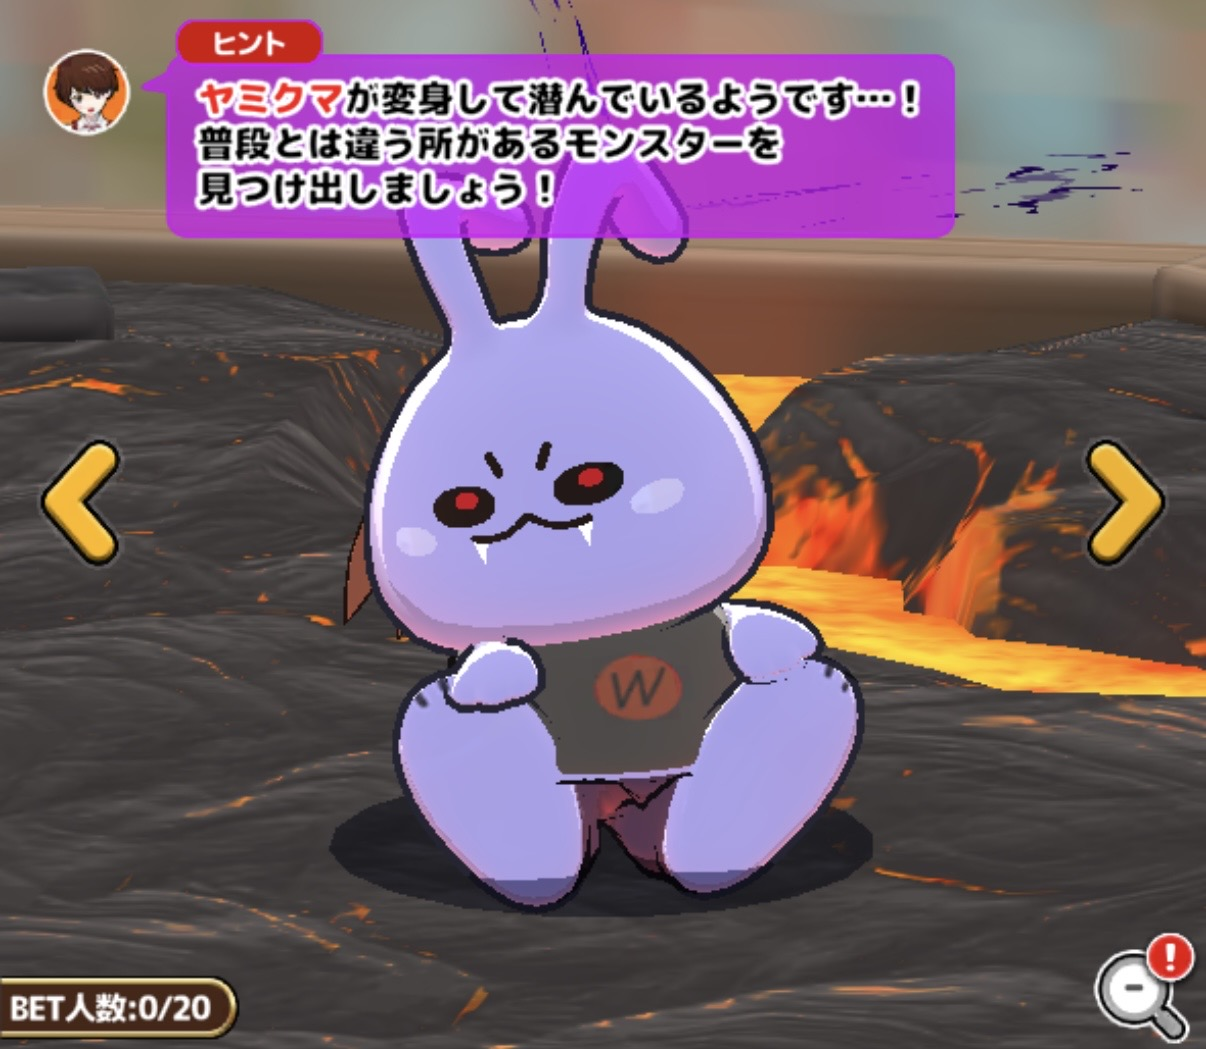
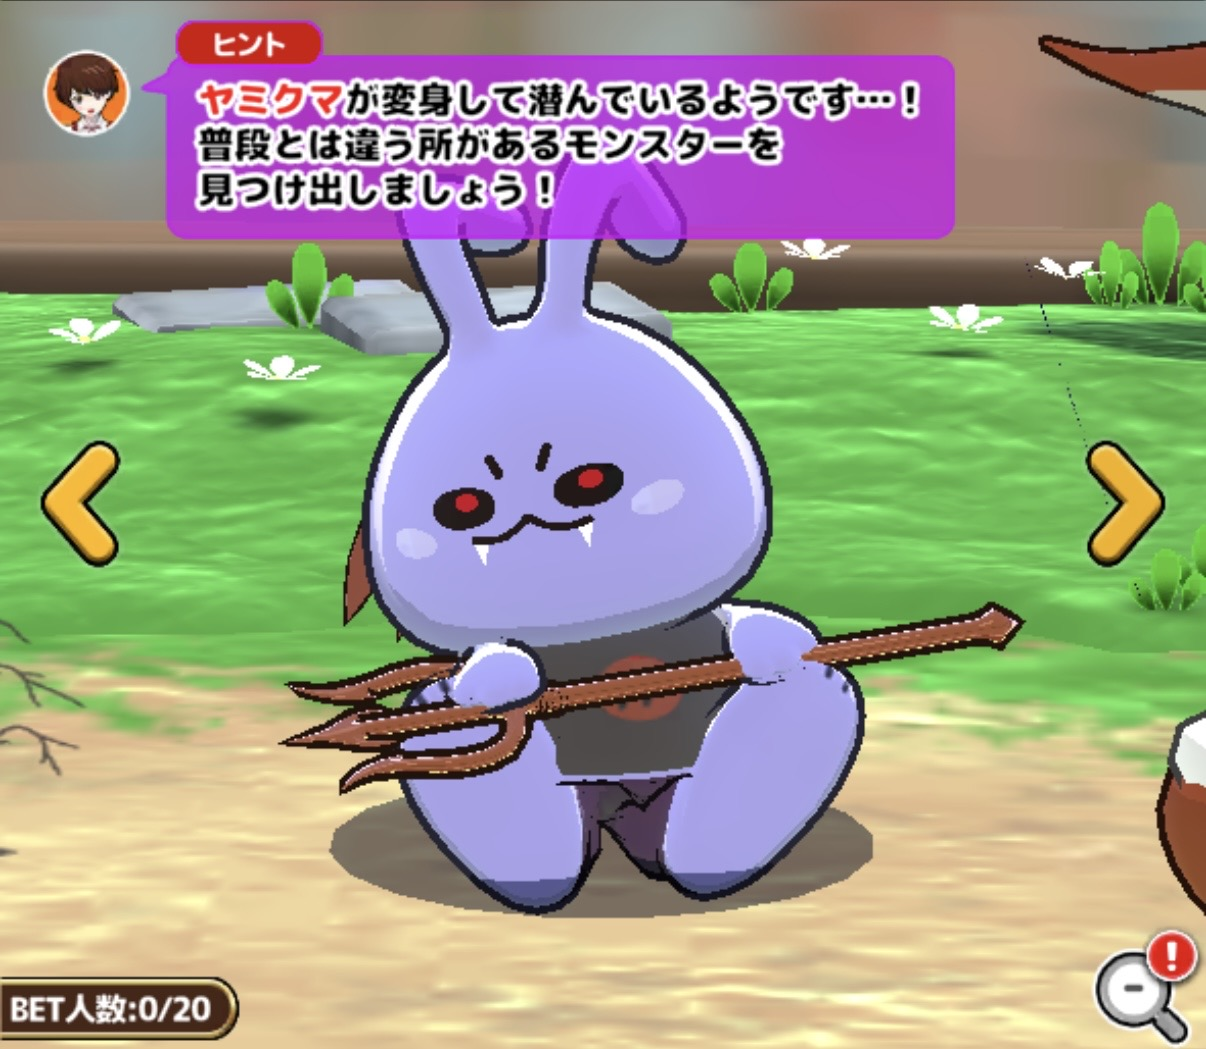
情報更新

diff --git a/data-anomaly.js b/data-anomaly.js
@@ -323,6 +323,11 @@ const ANOMALY_DATA = {
     {
       note: "槍",
       point: "槍が通常時と比べて大きい。",
+      compareIndex: 1
+    },
+    {
+      note: "槍",
+      point: "槍が通常時と比べて大きい。",
       compareIndex: 2
     },
     {
